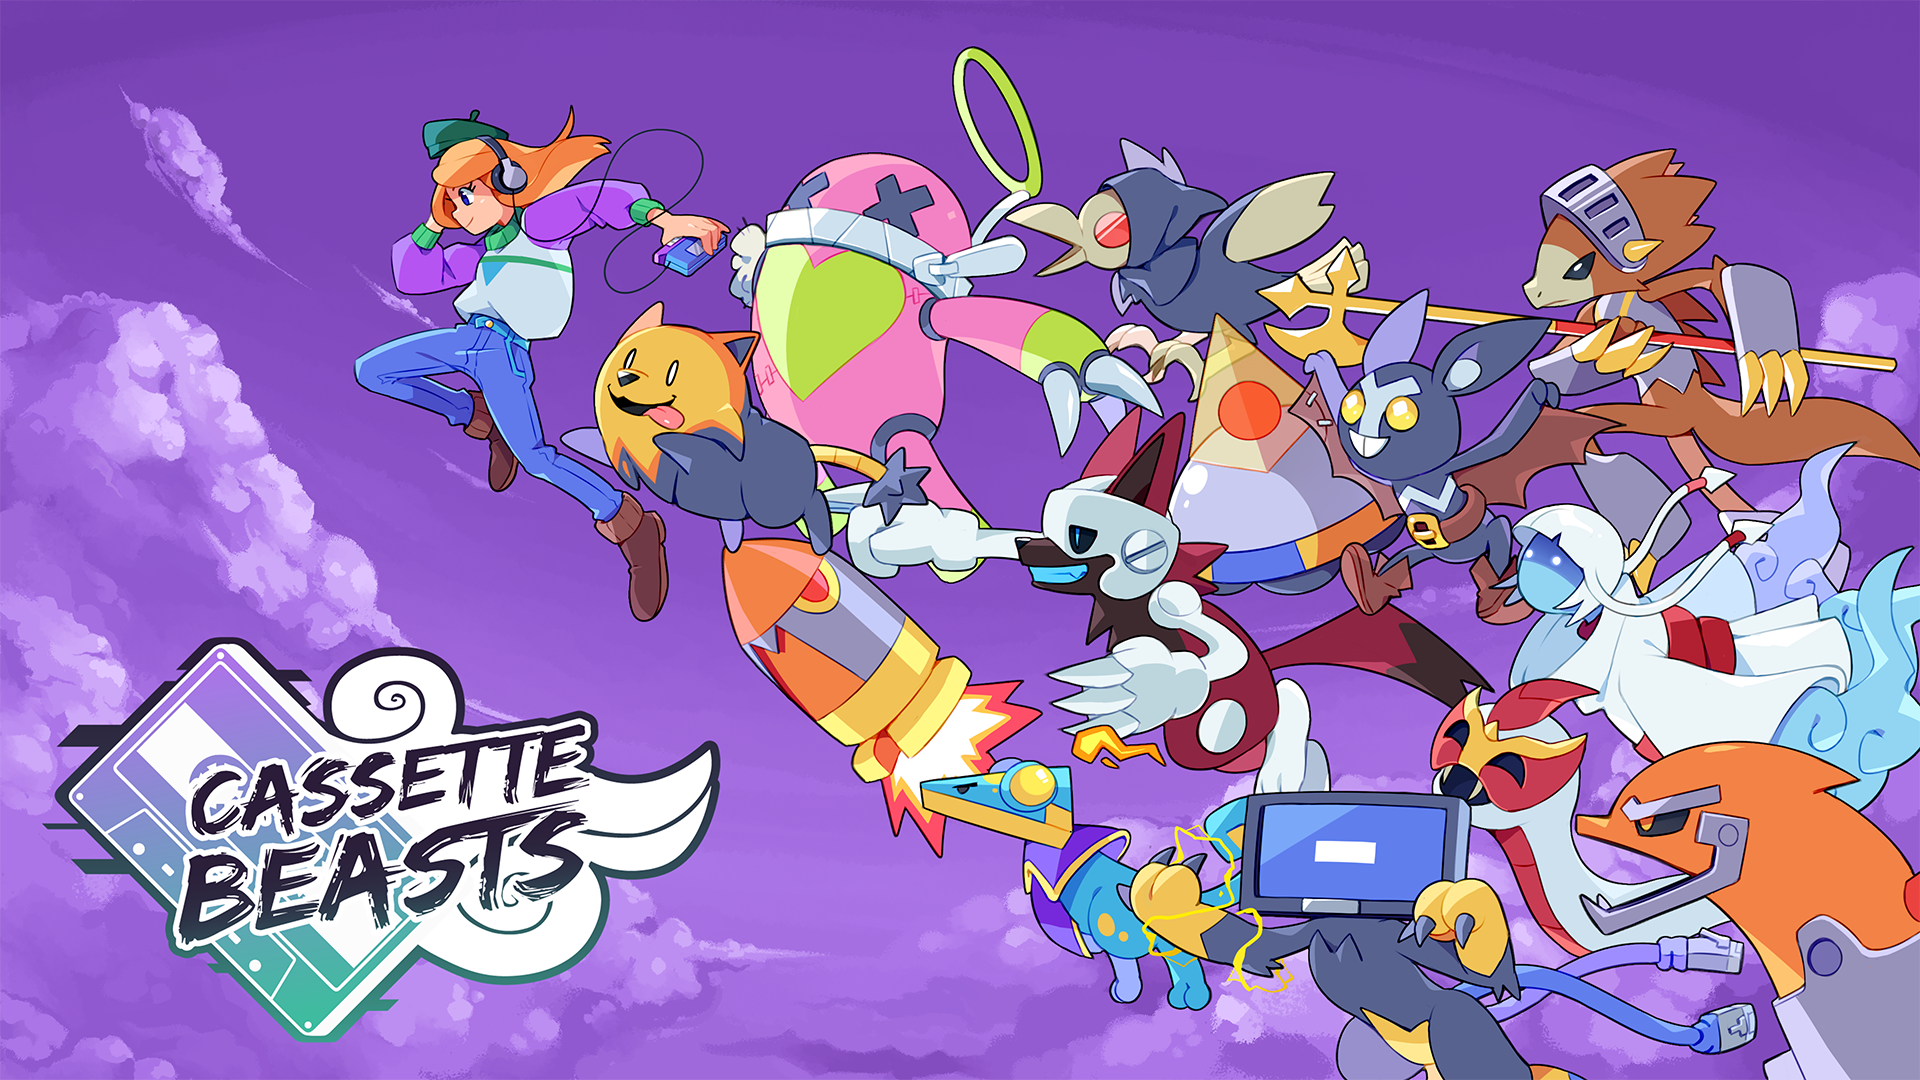
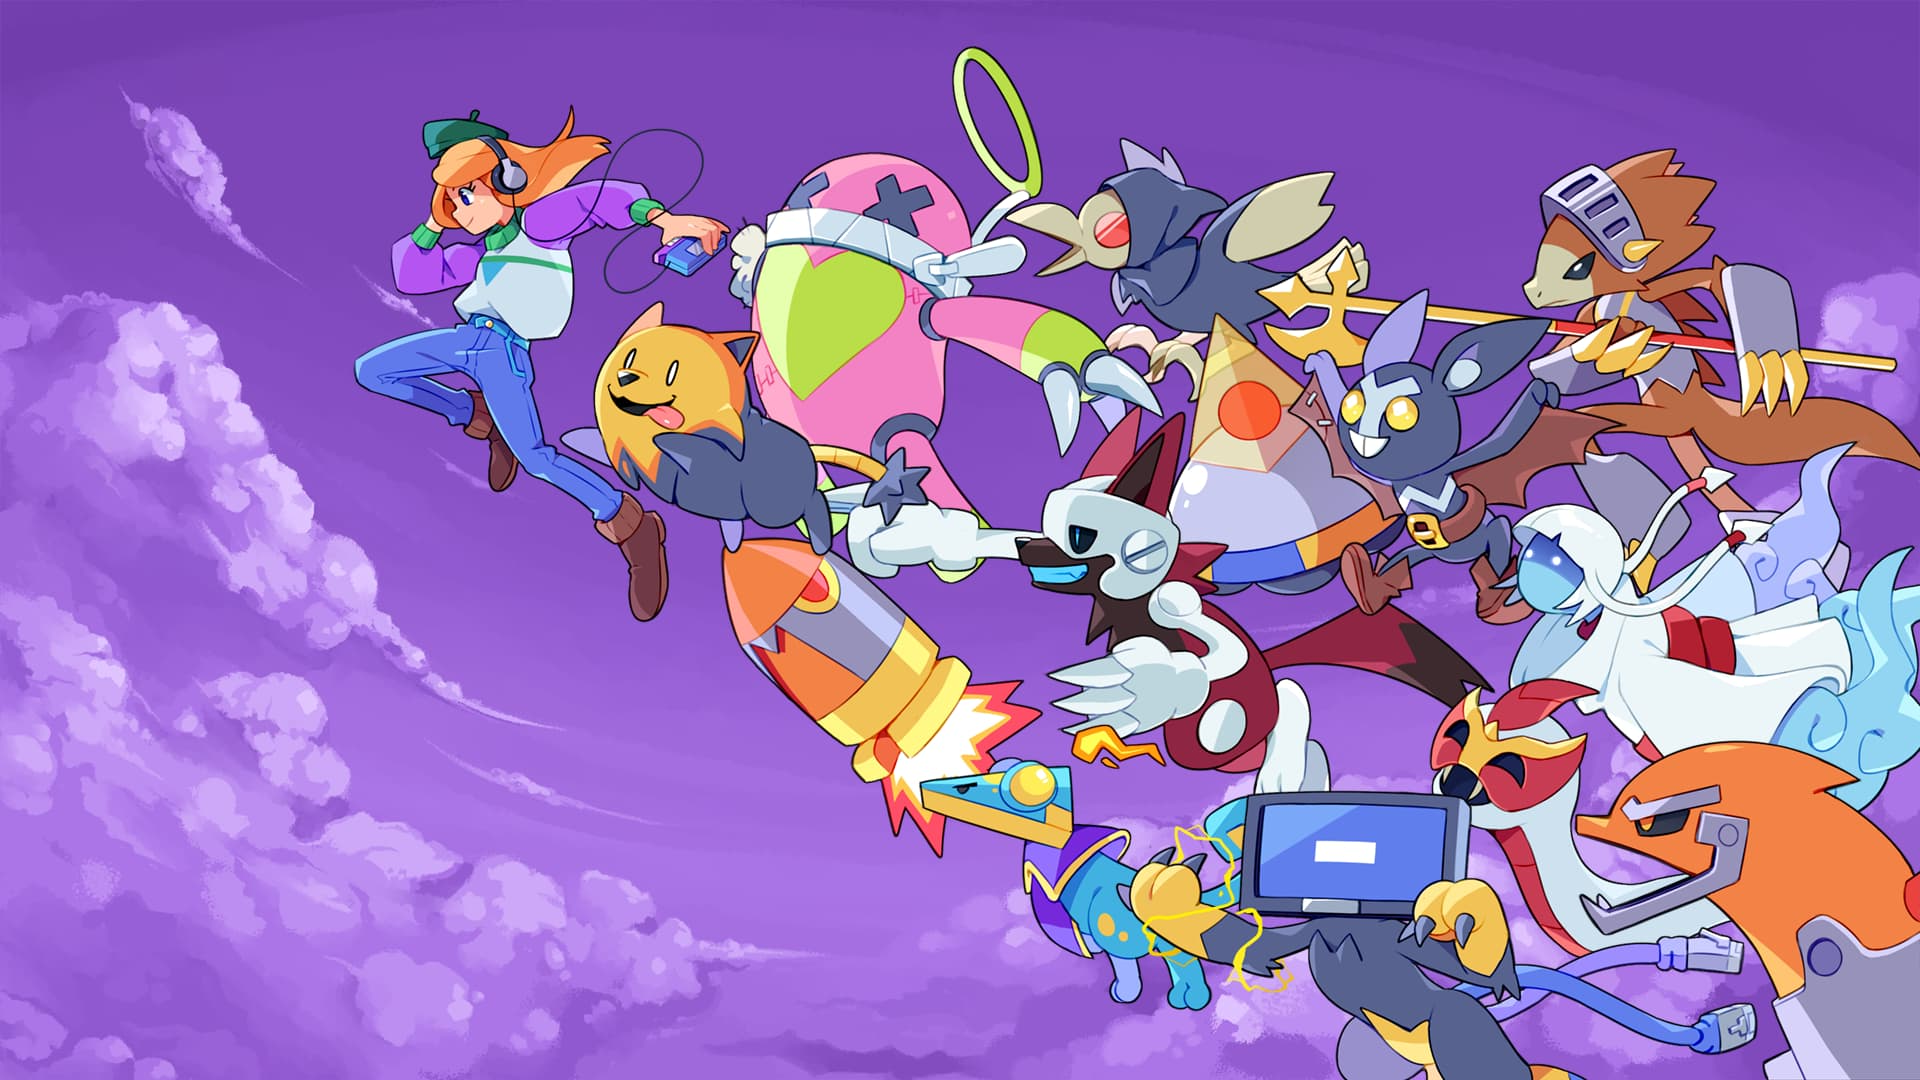
Adjusted Cassette Beasts shrine page images

diff --git a/shrines/cassettebeasts/index.html b/shrines/cassettebeasts/index.html
@@ -39,7 +39,7 @@
             <div class="content-container">
                 <section class="content-section">
                     <h1>Welcome to Leilukin's <cite>Cassette Beasts</cite> Shrine!</h1>
-                    <img src="./img/cassettebeasts-header.png" alt="Promotional image of Cassette Beasts">
+                    <img src="./img/CassetteBeasts_keyart_16_9.png" alt="Promotional image of Cassette Beasts">
                     <p><cite>Cassette Beasts</cite> is a 2D/3D hybrid creature collector open-world role-playing game developed by Bytten Studio, an indie team based in Brighton, United Kingdom, co-founded by Jay Baylis and Tom Coxon, and published by Raw Fury.</p>
 
                     <p>First released on Steam and Windows on April 26, 2023, later on console on May 25, 2023, <cite>Casette Beasts</cite> is available on Windows, Linux, Steam, Xbox Series X|S, Xbox One, Gamepass and Nintendo Switch.</p>
@@ -58,6 +58,8 @@
                 <section class="content-section">
                     <h2>How I Got into <cite>Cassette Beasts</cite></h2>
 
+                    <img src="./img/cassettebeasts-website_screenshot_02.png" alt="Official screenshot of Cassette Beasts">
+
                     <p>On June 30, 2023, when the Steam Summer Sale 2023 just started, I received <cite>Cassette Beasts</cite> as a Steam gift from a generous friend, who knew that I had been looking for independant monster-collecting games, since I mostly play indie games instead of AAA games nowadays.</p>
 
                     <p>I started my first playthrough of <cite>Cassette Beasts</cite> on July 18, 2023, and I was immediately hooked. I could already feel that this game has like everything I could ask for in an indie alternative to <cite>Pokémon</cite>.</p>
@@ -69,6 +71,8 @@
 
                 <section class="content-section">
                     <h2>Why You Should Play <cite>Cassette Beasts</cite></h2>
+
+                    <img src="./img/cassettebeasts-website-header-bg.jpg" alt="Header of the Cassette Beasts official website">
 
                     <p><cite>Cassette Beasts</cite> is a masterpiece of a monster collector game, rivalling if not even surpassing <cite>Pokémon</cite> at its best, because while it is obvious that Cassette Beasts is inspired by <cite>Pokémon</cite>, it utilises various aspects of <cite>Pokémon</cite> games with its own unique takes that are sometimes even better than <cite>Pokémon</cite>, from monster collecting mechanic, battle system, elemental type match ups, story, characters, lore, world building, map design, etc, with an amazing soundtrack that goes along with the game. As a result, <cite>Cassette Beasts</cite> is perfectly capable of standing on its own.</p>
 

diff --git a/shrines/index.html b/shrines/index.html
@@ -44,17 +44,17 @@
 
                 <section class="content-section">
                     <h2><a href="./asummersend/" target="_blank"><cite>A Summer’s End — Hong Kong 1986</cite></a></h2>
-                    <a href="./asummersend/" target="_blank"><img src="./asummersend/img/ASE_Key_art_intro.png" alt="Header of A Summer’s End — Hong Kong 1986" width="100%"></a>
+                    <a href="./asummersend/" target="_blank"><img src="./asummersend/img/ASE_Key_art_intro.png" alt="Header of A Summer’s End — Hong Kong 1986"></a>
                 </section>
 
                 <section class="content-section">
                     <h2><a href="./starwarskotor/" target="_blank"><cite>Star Wars: Knights of the Old Republic</cite></a></h2>
-                    <a href="./starwarskotor/" target="_blank"><img src="./starwarskotor/img/swkotor-header.jpg" alt="Header of the Star Wars: Knights of the Old Republic series" width="100%"></a>
+                    <a href="./starwarskotor/" target="_blank"><img src="./starwarskotor/img/swkotor-header.jpg" alt="Header of the Star Wars: Knights of the Old Republic series"></a>
                 </section>
 
                 <section class="content-section">
                     <h2><a href="./cassettebeasts/" target="_blank"><cite>Cassette Beasts</cite></a></h2>
-                    <a href="./cassettebeasts/" target="_blank"><img src="./cassettebeasts/img/cassettebeasts-header.png" alt="Header of the Star Wars: Knights of the Old Republic series" width="100%"></a>
+                    <a href="./cassettebeasts/" target="_blank"><img src="./cassettebeasts/img/CassetteBeasts_keyart_16_9.png" alt="Header of the Star Wars: Knights of the Old Republic series"></a>
                 </section>
             </div>
 

diff --git a/home.html b/home.html
@@ -71,6 +71,7 @@
                         <p class="date-style">August 28, 2023:</p>
                         <ul>
                             <li><a href="/shrines/asummersend/"><cite>A Summer’s End — Hong Kong 1986</cite> shrine</a>: Updated the main page with a new section: The Importance of LGBTQ+ Adult Coming Out Story</li>
+                            <li><a href="/shrines/cassettebeasts/"><cite>Cassette Beasts</cite> shrine</a>: Adjusted header image and added more images to the home page</li>
                         </ul>
                     </div>
                     <a href="/changelog">View all site changelog</a>

diff --git a/changelog/index.html b/changelog/index.html
@@ -46,6 +46,7 @@
                 <p class="date-style">August 28, 2023:</p>
                 <ul>
                     <li><a href="/shrines/asummersend/"><cite>A Summer’s End — Hong Kong 1986</cite> shrine</a>: Updated the main page with a new section: The Importance of LGBTQ+ Adult Coming Out Story</li>
+                    <li><a href="/shrines/cassettebeasts/"><cite>Cassette Beasts</cite> shrine</a>: Adjusted header image and added more images to the home page</li>
                 </ul>
 
                 <p class="date-style">August 26, 2023:</p>

diff --git a/shrines/cassettebeasts/css/style-cassettebeasts.css b/shrines/cassettebeasts/css/style-cassettebeasts.css
@@ -40,6 +40,12 @@
     height: 100%;
 }
 
+@media only screen and (min-width: 60rem) {
+    .main-header img {
+        object-position: top -4.5rem right 0;
+    }
+}
+
 .main-footer {
     color: var(--clr-navbar-link);
 }
